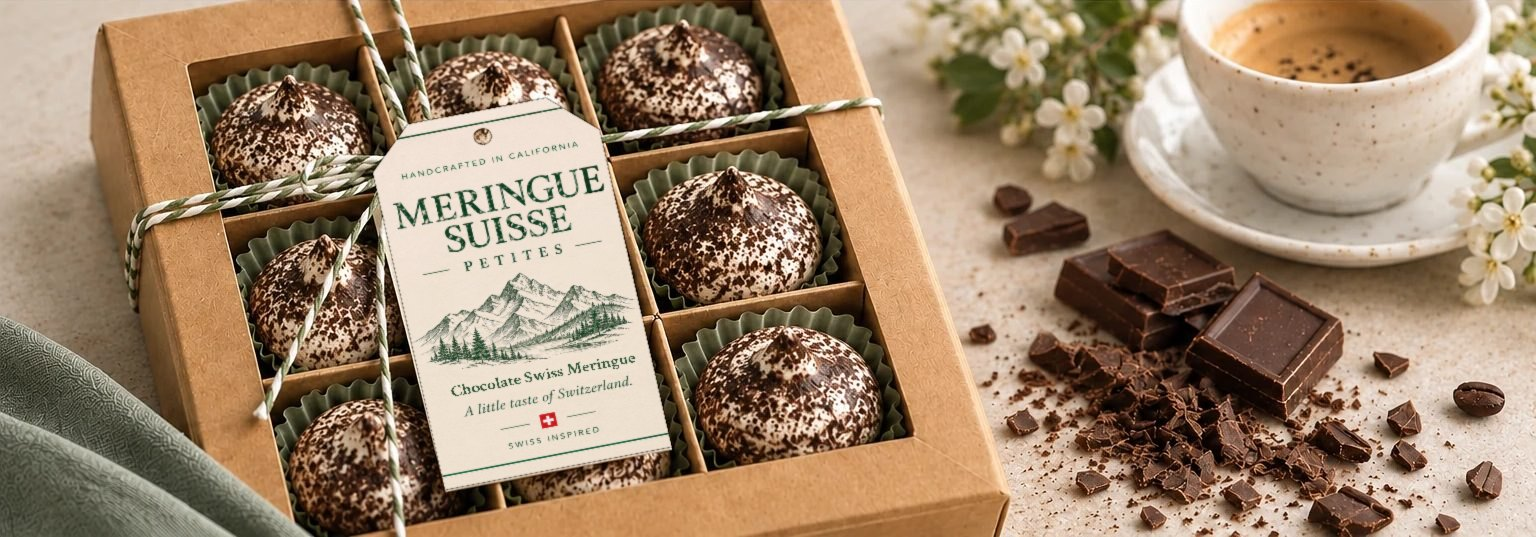
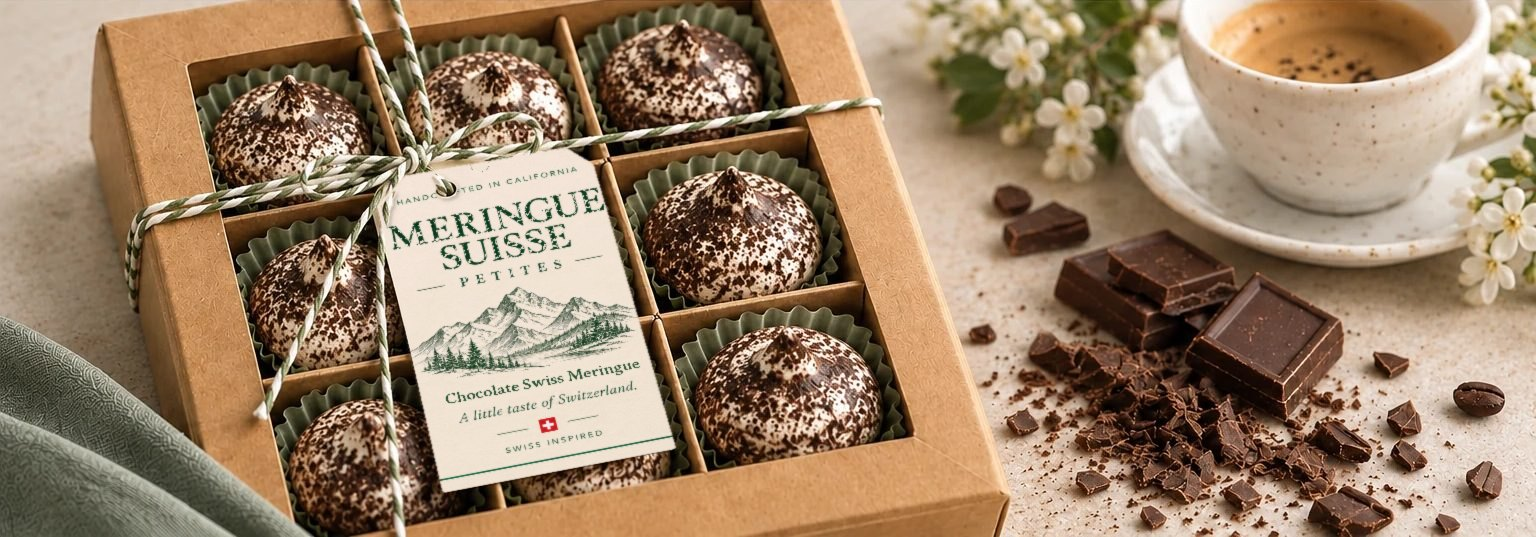
Redo tag compositing: twine and knot now pass over the new label
The new label is fitted to the old tag's outline (with its proportions)
so the knot stays untouched, and the twine crossing the tag is kept on
top with a soft shadow. Version suffix on the updated photos so browsers
reload them.

Claude-Session: https://claude.ai/code/session_01WSfocUezPVniS89HuC4wU9

Changed region(s): [[0.2188, 0.1788, 0.4375, 0.9236]]

diff --git a/shop.html b/shop.html
@@ -8,7 +8,7 @@
 <meta property="og:url" content="https://meringuesuisse.com/shop"><meta property="og:title" content="Shop PETITES — Box of 9 Swiss Meringues | Meringue Suisse"><meta property="og:description" content="PETITES: nine delicate Swiss-style meringues in a kraft gift box tied with twine. Classic, Coffee and Chocolate. $14.90 plus shipping. Coming soon: join the waiting list.">
 <meta property="og:image" content="https://meringuesuisse.com/images/share.jpg"><meta property="og:image:width" content="1200"><meta property="og:image:height" content="630"><meta property="og:image:alt" content="Meringue Suisse box of nine Swiss meringues tied with twine">
 <meta name="twitter:card" content="summary_large_image"><meta name="twitter:title" content="Shop PETITES — Box of 9 Swiss Meringues | Meringue Suisse"><meta name="twitter:description" content="PETITES: nine delicate Swiss-style meringues in a kraft gift box tied with twine. Classic, Coffee and Chocolate. $14.90 plus shipping. Coming soon: join the waiting list."><meta name="twitter:image" content="https://meringuesuisse.com/images/share.jpg">
-<script type="application/ld+json">{"@context":"https://schema.org","@type":"Product","name":"PETITES — Box of 9 Swiss Meringues","description":"Nine delicate Swiss-style meringues, handcrafted in California and arranged in a kraft gift box tied with twine. Flavors: Classic, Coffee, Chocolate.","image":["https://meringuesuisse.com/images/box-open.jpg","https://meringuesuisse.com/images/box-closed.jpg","https://meringuesuisse.com/images/gift-set.jpg"],"sku":"PETITES-9","brand":{"@type":"Brand","name":"Meringue Suisse"},"offers":{"@type":"Offer","url":"https://meringuesuisse.com/shop","priceCurrency":"USD","price":"14.90","availability":"https://schema.org/OutOfStock","itemCondition":"https://schema.org/NewCondition","seller":{"@id":"https://meringuesuisse.com/#organization"},"shippingDetails":[{"@type":"OfferShippingDetails","shippingLabel":"USPS Ground Advantage","shippingRate":{"@type":"MonetaryAmount","value":"9.90","currency":"USD"},"shippingDestination":{"@type":"DefinedRegion","addressCountry":"US","addressRegion":"CA"},"deliveryTime":{"@type":"ShippingDeliveryTime","handlingTime":{"@type":"QuantitativeValue","minValue":3,"maxValue":5,"unitCode":"DAY"},"transitTime":{"@type":"QuantitativeValue","minValue":2,"maxValue":5,"unitCode":"DAY"}}},{"@type":"OfferShippingDetails","shippingLabel":"Free local delivery (Temecula area)","shippingRate":{"@type":"MonetaryAmount","value":"0","currency":"USD"},"shippingDestination":{"@type":"DefinedRegion","addressCountry":"US","postalCode":["92590","92591","92592","92593","92562","92563","92564","92595","92596"]},"deliveryTime":{"@type":"ShippingDeliveryTime","handlingTime":{"@type":"QuantitativeValue","minValue":3,"maxValue":5,"unitCode":"DAY"},"transitTime":{"@type":"QuantitativeValue","minValue":0,"maxValue":1,"unitCode":"DAY"}}}],"hasMerchantReturnPolicy":{"@type":"MerchantReturnPolicy","applicableCountry":"US","returnPolicyCategory":"https://schema.org/MerchantReturnNotPermitted"}},"weight":{"@type":"QuantitativeValue","value":45,"unitCode":"GRM"}}</script>
+<script type="application/ld+json">{"@context":"https://schema.org","@type":"Product","name":"PETITES — Box of 9 Swiss Meringues","description":"Nine delicate Swiss-style meringues, handcrafted in California and arranged in a kraft gift box tied with twine. Flavors: Classic, Coffee, Chocolate.","image":["https://meringuesuisse.com/images/box-open.jpg","https://meringuesuisse.com/images/box-closed.jpg?v=2","https://meringuesuisse.com/images/gift-set.jpg?v=2"],"sku":"PETITES-9","brand":{"@type":"Brand","name":"Meringue Suisse"},"offers":{"@type":"Offer","url":"https://meringuesuisse.com/shop","priceCurrency":"USD","price":"14.90","availability":"https://schema.org/OutOfStock","itemCondition":"https://schema.org/NewCondition","seller":{"@id":"https://meringuesuisse.com/#organization"},"shippingDetails":[{"@type":"OfferShippingDetails","shippingLabel":"USPS Ground Advantage","shippingRate":{"@type":"MonetaryAmount","value":"9.90","currency":"USD"},"shippingDestination":{"@type":"DefinedRegion","addressCountry":"US","addressRegion":"CA"},"deliveryTime":{"@type":"ShippingDeliveryTime","handlingTime":{"@type":"QuantitativeValue","minValue":3,"maxValue":5,"unitCode":"DAY"},"transitTime":{"@type":"QuantitativeValue","minValue":2,"maxValue":5,"unitCode":"DAY"}}},{"@type":"OfferShippingDetails","shippingLabel":"Free local delivery (Temecula area)","shippingRate":{"@type":"MonetaryAmount","value":"0","currency":"USD"},"shippingDestination":{"@type":"DefinedRegion","addressCountry":"US","postalCode":["92590","92591","92592","92593","92562","92563","92564","92595","92596"]},"deliveryTime":{"@type":"ShippingDeliveryTime","handlingTime":{"@type":"QuantitativeValue","minValue":3,"maxValue":5,"unitCode":"DAY"},"transitTime":{"@type":"QuantitativeValue","minValue":0,"maxValue":1,"unitCode":"DAY"}}}],"hasMerchantReturnPolicy":{"@type":"MerchantReturnPolicy","applicableCountry":"US","returnPolicyCategory":"https://schema.org/MerchantReturnNotPermitted"}},"weight":{"@type":"QuantitativeValue","value":45,"unitCode":"GRM"}}</script>
 <script type="application/ld+json">{"@context":"https://schema.org","@type":"BreadcrumbList","itemListElement":[{"@type":"ListItem","position":1,"name":"Home","item":"https://meringuesuisse.com/"},{"@type":"ListItem","position":2,"name":"Shop","item":"https://meringuesuisse.com/shop"}]}</script>
 <meta name="theme-color" content="#F7F3EA">
 <link rel="icon" href="/favicon.ico" sizes="48x48">
@@ -17,7 +17,7 @@
 <link rel="manifest" href="/site.webmanifest">
 <link rel="preconnect" href="https://fonts.googleapis.com"><link rel="preconnect" href="https://fonts.gstatic.com" crossorigin>
 <link href="https://fonts.googleapis.com/css2?family=Cormorant+Garamond:ital,wght@0,400;0,500;0,600;1,400;1,500&family=Figtree:wght@400;500;600&display=swap" rel="stylesheet">
-<link rel="stylesheet" href="assets/style.css?v=2026102403">
+<link rel="stylesheet" href="assets/style.css?v=2026102501">
 </head><body>
 <a class="skip" href="#main">Skip to content</a>
 <header class="site-header"><div class="wrap nav">
@@ -31,7 +31,7 @@
   <div class="main"><img id="main-img" src="images/hero.jpg" alt="Nine Swiss meringues in sage-green cups" width="1027" height="838"></div>
   <div class="thumbs">
    <button aria-pressed="true" data-src="images/hero.jpg" data-alt="Nine Swiss meringues in sage-green cups"><img src="images/hero.jpg" alt="Show meringues in the box" width="1027" height="838"></button>
-   <button aria-pressed="false" data-src="images/box-closed.jpg" data-alt="Kraft window box tied with twine and a gift tag"><img src="images/box-closed.jpg" alt="Show closed box" width="1139" height="657"></button>
+   <button aria-pressed="false" data-src="images/box-closed.jpg?v=2" data-alt="Kraft window box tied with twine and a gift tag"><img src="images/box-closed.jpg?v=2" alt="Show closed box" width="1139" height="657"></button>
    <button aria-pressed="false" data-src="images/box-open.jpg" data-alt="Open kraft box of nine meringues with the little Meringue Suisse card"><img src="images/box-open.jpg" alt="Show open box" width="1027" height="701"></button>
    <button aria-pressed="false" data-src="images/closeup.jpg" data-alt="Close-up of a Swiss meringue"><img src="images/closeup.jpg" alt="Show close-up" width="1139" height="838"></button>
   </div>
@@ -79,6 +79,6 @@
 <p style="margin-top:.5rem">Ingredients, allergens and net weight are listed on each product page.</p></div>
 </div></footer>
 <script>document.getElementById("yr").textContent=new Date().getFullYear()</script>
-<script src="assets/config.js?v=2026102403"></script><script src="assets/site.js?v=2026102403"></script>
+<script src="assets/config.js?v=2026102501"></script><script src="assets/site.js?v=2026102501"></script>
 <!-- Cloudflare Web Analytics --><script type='module' src='https://static.cloudflareinsights.com/beacon.min.js' data-cf-beacon='{"token": "d83dcca4d8484fac94c0cab27d64881f"}'></script><!-- End Cloudflare Web Analytics -->
 </body></html>

diff --git a/index.html b/index.html
@@ -17,7 +17,7 @@
 <link rel="manifest" href="/site.webmanifest">
 <link rel="preconnect" href="https://fonts.googleapis.com"><link rel="preconnect" href="https://fonts.gstatic.com" crossorigin>
 <link href="https://fonts.googleapis.com/css2?family=Cormorant+Garamond:ital,wght@0,400;0,500;0,600;1,400;1,500&family=Figtree:wght@400;500;600&display=swap" rel="stylesheet">
-<link rel="stylesheet" href="assets/style.css?v=2026102403">
+<link rel="stylesheet" href="assets/style.css?v=2026102501">
 </head><body>
 <a class="skip" href="#main">Skip to content</a>
 <header class="site-header"><div class="wrap nav">
@@ -36,7 +36,7 @@
  <div class="hero-img"><img src="images/hero.jpg" alt="Open kraft box of nine Swiss meringues in sage-green cups" fetchpriority="high" width="1027" height="838"></div>
 </div>
 <section class="band"><div class="wrap split">
- <img src="images/gift-set.jpg" alt="Kraft box of nine meringues tied with green and white twine and a Meringue Suisse tag, next to the story card" loading="lazy" width="1135" height="838">
+ <img src="images/gift-set.jpg?v=2" alt="Kraft box of nine meringues tied with green and white twine and a Meringue Suisse tag, next to the story card" loading="lazy" width="1135" height="838">
  <div class="text"><h2>Small delights.<br>Swiss tradition.</h2>
   <p>Inspired by Switzerland's love of simple, beautiful things, our delicate meringues bring a little European elegance to everyday moments.</p>
   <p>Light, crisp and beautifully presented, each box is made to be enjoyed, shared or gifted.</p>
@@ -47,8 +47,8 @@
  <div class="head-c"><h2>Our flavors</h2></div>
  <div class="cards">
   <a class="card" href="/shop?flavor=classic"><div class="ph"><img src="images/classic.jpg" alt="A single classic Swiss meringue" loading="lazy" width="1139" height="701"></div><div class="b"><span class="n">01</span><h3>CLASSIC</h3><p>Pure, delicate and timeless.</p></div></a>
-  <a class="card" href="/shop?flavor=coffee"><div class="ph"><img src="images/coffee.jpg" style="object-position:50% 50%" alt="Kraft box of coffee meringues tied with twine and a Coffee Meringue tag" loading="lazy" width="960" height="545"></div><div class="b"><span class="n">02</span><h3>COFFEE</h3><p>A delicate coffee note for those who appreciate a richer taste.</p></div></a>
-  <a class="card" href="/shop?flavor=chocolate"><div class="ph"><img src="images/chocolate.jpg" style="object-position:25% 50%" alt="Chocolate meringues dusted with cocoa in a kraft box tied with twine, beside dark chocolate" loading="lazy" width="1600" height="534"></div><div class="b"><span class="n">03</span><h3>CHOCOLATE</h3><p>A refined cocoa variation inspired by Swiss chocolate tradition.</p></div></a>
+  <a class="card" href="/shop?flavor=coffee"><div class="ph"><img src="images/coffee.jpg?v=2" style="object-position:50% 50%" alt="Kraft box of coffee meringues tied with twine and a Coffee Meringue tag" loading="lazy" width="960" height="545"></div><div class="b"><span class="n">02</span><h3>COFFEE</h3><p>A delicate coffee note for those who appreciate a richer taste.</p></div></a>
+  <a class="card" href="/shop?flavor=chocolate"><div class="ph"><img src="images/chocolate.jpg?v=2" style="object-position:25% 50%" alt="Chocolate meringues dusted with cocoa in a kraft box tied with twine, beside dark chocolate" loading="lazy" width="1600" height="534"></div><div class="b"><span class="n">03</span><h3>CHOCOLATE</h3><p>A refined cocoa variation inspired by Swiss chocolate tradition.</p></div></a>
  </div>
  <p class="note">Coffee and Chocolate are planned for launch, subject to final recipe approval.</p>
 </div></section>
@@ -59,7 +59,7 @@
 <section class="band"><div class="wrap">
  <div class="head-c"><h2>Made to be given.<br>Lovely to receive.</h2><p>A little box of something special. Thoughtfully presented, ready to share.</p></div>
  <div class="trio">
-  <img src="images/box-closed.jpg" alt="Kraft window box of nine meringues tied with twine and a Meringue Suisse tag" loading="lazy" width="1139" height="657">
+  <img src="images/box-closed.jpg?v=2" alt="Kraft window box of nine meringues tied with twine and a Meringue Suisse tag" loading="lazy" width="1139" height="657">
   <img src="images/box-open.jpg" alt="Open box of nine meringues with the little Meringue Suisse card" loading="lazy" width="1027" height="701">
   <img src="images/story-card.jpg" style="object-position:20% 50%" alt="The little story card included in every box" loading="lazy" width="1135" height="701">
  </div>
@@ -87,6 +87,6 @@
 <p style="margin-top:.5rem">Ingredients, allergens and net weight are listed on each product page.</p></div>
 </div></footer>
 <script>document.getElementById("yr").textContent=new Date().getFullYear()</script>
-<script src="assets/config.js?v=2026102403"></script><script src="assets/site.js?v=2026102403"></script>
+<script src="assets/config.js?v=2026102501"></script><script src="assets/site.js?v=2026102501"></script>
 <!-- Cloudflare Web Analytics --><script type='module' src='https://static.cloudflareinsights.com/beacon.min.js' data-cf-beacon='{"token": "d83dcca4d8484fac94c0cab27d64881f"}'></script><!-- End Cloudflare Web Analytics -->
 </body></html>

diff --git a/assets/site.js b/assets/site.js
@@ -40,13 +40,13 @@
       classic:{src:"images/hero.jpg",alt:"Kraft box of nine classic Swiss meringues in sage-green cups"},
       coffee:{src:"images/coffee-open.jpg",alt:"Open kraft box of nine coffee meringues",pos:"30% 50%",gallery:[
         {src:"images/coffee-open.jpg",alt:"Open kraft box of nine coffee meringues",pos:"30% 50%"},
-        {src:"images/coffee-tied.jpg",alt:"Box of coffee meringues tied with twine and a Coffee Meringue tag",pos:"50% 50%"},
+        {src:"images/coffee-tied.jpg?v=2",alt:"Box of coffee meringues tied with twine and a Coffee Meringue tag",pos:"50% 50%"},
         {src:"images/coffee-closeup.jpg",alt:"Close-up of a coffee meringue beside coffee beans",pos:"40% 50%"}]},
       chocolate:{src:"images/choc-open.jpg",alt:"Open kraft box of nine chocolate meringues dusted with cocoa",pos:"30% 50%",gallery:[
         {src:"images/choc-open.jpg",alt:"Open kraft box of nine chocolate meringues dusted with cocoa",pos:"30% 50%"},
-        {src:"images/choc-tied.jpg",alt:"Box of chocolate meringues tied with twine and a Meringue Suisse tag",pos:"30% 50%"},
+        {src:"images/choc-tied.jpg?v=2",alt:"Box of chocolate meringues tied with twine and a Meringue Suisse tag",pos:"30% 50%"},
         {src:"images/choc-closeup.jpg",alt:"Close-up of a chocolate meringue dusted with cocoa",pos:"50% 50%"},
-        {src:"images/chocolate.jpg",alt:"Chocolate meringues in their box beside pieces of dark chocolate and an espresso",pos:"25% 50%"}]}
+        {src:"images/chocolate.jpg?v=2",alt:"Chocolate meringues in their box beside pieces of dark chocolate and an espresso",pos:"25% 50%"}]}
     };
     // small photos under the main photo: per-flavor set when defined, else the default set
     var thumbsEl=$(".thumbs"),defaultThumbs=thumbsEl?thumbsEl.innerHTML:"";
@@ -80,7 +80,7 @@
   // ---- cart page
   var cartEl=$("#cart");
   if(cartEl){
-    var imgFor={classic:"images/classic.jpg",coffee:"images/coffee.jpg",chocolate:"images/chocolate.jpg"};
+    var imgFor={classic:"images/classic.jpg",coffee:"images/coffee.jpg?v=2",chocolate:"images/chocolate.jpg?v=2"};
     var render=function(){
       var c=load(),box=$("#lines"),sum=$("#summary");
       if(!c.length){box.innerHTML='<div class="empty"><p class="lede">Your cart is empty.</p><div class="btn-row" style="justify-content:center"><a class="btn" href="/shop">Shop PETITES</a></div></div>';sum.hidden=true;return}

diff --git a/404.html b/404.html
@@ -16,7 +16,7 @@
 <link rel="manifest" href="/site.webmanifest">
 <link rel="preconnect" href="https://fonts.googleapis.com"><link rel="preconnect" href="https://fonts.gstatic.com" crossorigin>
 <link href="https://fonts.googleapis.com/css2?family=Cormorant+Garamond:ital,wght@0,400;0,500;0,600;1,400;1,500&family=Figtree:wght@400;500;600&display=swap" rel="stylesheet">
-<link rel="stylesheet" href="/assets/style.css?v=2026102403">
+<link rel="stylesheet" href="/assets/style.css?v=2026102501">
 </head><body>
 <a class="skip" href="#main">Skip to content</a>
 <header class="site-header"><div class="wrap nav">
@@ -42,6 +42,6 @@
 <p style="margin-top:.5rem">Ingredients, allergens and net weight are listed on each product page.</p></div>
 </div></footer>
 <script>document.getElementById("yr").textContent=new Date().getFullYear()</script>
-<script src="/assets/config.js?v=2026102403"></script><script src="/assets/site.js?v=2026102403"></script>
+<script src="/assets/config.js?v=2026102501"></script><script src="/assets/site.js?v=2026102501"></script>
 <!-- Cloudflare Web Analytics --><script type='module' src='https://static.cloudflareinsights.com/beacon.min.js' data-cf-beacon='{"token": "d83dcca4d8484fac94c0cab27d64881f"}'></script><!-- End Cloudflare Web Analytics -->
 </body></html>

diff --git a/cart.html b/cart.html
@@ -16,7 +16,7 @@
 <link rel="manifest" href="/site.webmanifest">
 <link rel="preconnect" href="https://fonts.googleapis.com"><link rel="preconnect" href="https://fonts.gstatic.com" crossorigin>
 <link href="https://fonts.googleapis.com/css2?family=Cormorant+Garamond:ital,wght@0,400;0,500;0,600;1,400;1,500&family=Figtree:wght@400;500;600&display=swap" rel="stylesheet">
-<link rel="stylesheet" href="assets/style.css?v=2026102403">
+<link rel="stylesheet" href="assets/style.css?v=2026102501">
 </head><body>
 <a class="skip" href="#main">Skip to content</a>
 <header class="site-header"><div class="wrap nav">
@@ -70,6 +70,6 @@
 <p style="margin-top:.5rem">Ingredients, allergens and net weight are listed on each product page.</p></div>
 </div></footer>
 <script>document.getElementById("yr").textContent=new Date().getFullYear()</script>
-<script src="assets/config.js?v=2026102403"></script><script src="assets/site.js?v=2026102403"></script>
+<script src="assets/config.js?v=2026102501"></script><script src="assets/site.js?v=2026102501"></script>
 <!-- Cloudflare Web Analytics --><script type='module' src='https://static.cloudflareinsights.com/beacon.min.js' data-cf-beacon='{"token": "d83dcca4d8484fac94c0cab27d64881f"}'></script><!-- End Cloudflare Web Analytics -->
 </body></html>

diff --git a/contact.html b/contact.html
@@ -16,7 +16,7 @@
 <link rel="manifest" href="/site.webmanifest">
 <link rel="preconnect" href="https://fonts.googleapis.com"><link rel="preconnect" href="https://fonts.gstatic.com" crossorigin>
 <link href="https://fonts.googleapis.com/css2?family=Cormorant+Garamond:ital,wght@0,400;0,500;0,600;1,400;1,500&family=Figtree:wght@400;500;600&display=swap" rel="stylesheet">
-<link rel="stylesheet" href="assets/style.css?v=2026102403">
+<link rel="stylesheet" href="assets/style.css?v=2026102501">
 </head><body>
 <a class="skip" href="#main">Skip to content</a>
 <header class="site-header"><div class="wrap nav">
@@ -53,6 +53,6 @@
 <p style="margin-top:.5rem">Ingredients, allergens and net weight are listed on each product page.</p></div>
 </div></footer>
 <script>document.getElementById("yr").textContent=new Date().getFullYear()</script>
-<script src="assets/config.js?v=2026102403"></script><script src="assets/site.js?v=2026102403"></script>
+<script src="assets/config.js?v=2026102501"></script><script src="assets/site.js?v=2026102501"></script>
 <!-- Cloudflare Web Analytics --><script type='module' src='https://static.cloudflareinsights.com/beacon.min.js' data-cf-beacon='{"token": "d83dcca4d8484fac94c0cab27d64881f"}'></script><!-- End Cloudflare Web Analytics -->
 </body></html>

diff --git a/privacy.html b/privacy.html
@@ -15,7 +15,7 @@
 <link rel="manifest" href="/site.webmanifest">
 <link rel="preconnect" href="https://fonts.googleapis.com"><link rel="preconnect" href="https://fonts.gstatic.com" crossorigin>
 <link href="https://fonts.googleapis.com/css2?family=Cormorant+Garamond:ital,wght@0,400;0,500;0,600;1,400;1,500&family=Figtree:wght@400;500;600&display=swap" rel="stylesheet">
-<link rel="stylesheet" href="assets/style.css?v=2026102403">
+<link rel="stylesheet" href="assets/style.css?v=2026102501">
 </head><body>
 <a class="skip" href="#main">Skip to content</a>
 <header class="site-header"><div class="wrap nav">
@@ -83,6 +83,6 @@
 <p style="margin-top:.5rem">Ingredients, allergens and net weight are listed on each product page.</p></div>
 </div></footer>
 <script>document.getElementById("yr").textContent=new Date().getFullYear()</script>
-<script src="assets/config.js?v=2026102403"></script><script src="assets/site.js?v=2026102403"></script>
+<script src="assets/config.js?v=2026102501"></script><script src="assets/site.js?v=2026102501"></script>
 <!-- Cloudflare Web Analytics --><script type='module' src='https://static.cloudflareinsights.com/beacon.min.js' data-cf-beacon='{"token": "d83dcca4d8484fac94c0cab27d64881f"}'></script><!-- End Cloudflare Web Analytics -->
 </body></html>

diff --git a/shipping-returns.html b/shipping-returns.html
@@ -16,7 +16,7 @@
 <link rel="manifest" href="/site.webmanifest">
 <link rel="preconnect" href="https://fonts.googleapis.com"><link rel="preconnect" href="https://fonts.gstatic.com" crossorigin>
 <link href="https://fonts.googleapis.com/css2?family=Cormorant+Garamond:ital,wght@0,400;0,500;0,600;1,400;1,500&family=Figtree:wght@400;500;600&display=swap" rel="stylesheet">
-<link rel="stylesheet" href="assets/style.css?v=2026102403">
+<link rel="stylesheet" href="assets/style.css?v=2026102501">
 </head><body>
 <a class="skip" href="#main">Skip to content</a>
 <header class="site-header"><div class="wrap nav">
@@ -47,6 +47,6 @@
 <p style="margin-top:.5rem">Ingredients, allergens and net weight are listed on each product page.</p></div>
 </div></footer>
 <script>document.getElementById("yr").textContent=new Date().getFullYear()</script>
-<script src="assets/config.js?v=2026102403"></script><script src="assets/site.js?v=2026102403"></script>
+<script src="assets/config.js?v=2026102501"></script><script src="assets/site.js?v=2026102501"></script>
 <!-- Cloudflare Web Analytics --><script type='module' src='https://static.cloudflareinsights.com/beacon.min.js' data-cf-beacon='{"token": "d83dcca4d8484fac94c0cab27d64881f"}'></script><!-- End Cloudflare Web Analytics -->
 </body></html>

diff --git a/story.html b/story.html
@@ -16,7 +16,7 @@
 <link rel="manifest" href="/site.webmanifest">
 <link rel="preconnect" href="https://fonts.googleapis.com"><link rel="preconnect" href="https://fonts.gstatic.com" crossorigin>
 <link href="https://fonts.googleapis.com/css2?family=Cormorant+Garamond:ital,wght@0,400;0,500;0,600;1,400;1,500&family=Figtree:wght@400;500;600&display=swap" rel="stylesheet">
-<link rel="stylesheet" href="assets/style.css?v=2026102403">
+<link rel="stylesheet" href="assets/style.css?v=2026102501">
 </head><body>
 <a class="skip" href="#main">Skip to content</a>
 <header class="site-header"><div class="wrap nav">
@@ -53,6 +53,6 @@
 <p style="margin-top:.5rem">Ingredients, allergens and net weight are listed on each product page.</p></div>
 </div></footer>
 <script>document.getElementById("yr").textContent=new Date().getFullYear()</script>
-<script src="assets/config.js?v=2026102403"></script><script src="assets/site.js?v=2026102403"></script>
+<script src="assets/config.js?v=2026102501"></script><script src="assets/site.js?v=2026102501"></script>
 <!-- Cloudflare Web Analytics --><script type='module' src='https://static.cloudflareinsights.com/beacon.min.js' data-cf-beacon='{"token": "d83dcca4d8484fac94c0cab27d64881f"}'></script><!-- End Cloudflare Web Analytics -->
 </body></html>

diff --git a/terms.html b/terms.html
@@ -15,7 +15,7 @@
 <link rel="manifest" href="/site.webmanifest">
 <link rel="preconnect" href="https://fonts.googleapis.com"><link rel="preconnect" href="https://fonts.gstatic.com" crossorigin>
 <link href="https://fonts.googleapis.com/css2?family=Cormorant+Garamond:ital,wght@0,400;0,500;0,600;1,400;1,500&family=Figtree:wght@400;500;600&display=swap" rel="stylesheet">
-<link rel="stylesheet" href="assets/style.css?v=2026102403">
+<link rel="stylesheet" href="assets/style.css?v=2026102501">
 </head><body>
 <a class="skip" href="#main">Skip to content</a>
 <header class="site-header"><div class="wrap nav">
@@ -46,6 +46,6 @@
 <p style="margin-top:.5rem">Ingredients, allergens and net weight are listed on each product page.</p></div>
 </div></footer>
 <script>document.getElementById("yr").textContent=new Date().getFullYear()</script>
-<script src="assets/config.js?v=2026102403"></script><script src="assets/site.js?v=2026102403"></script>
+<script src="assets/config.js?v=2026102501"></script><script src="assets/site.js?v=2026102501"></script>
 <!-- Cloudflare Web Analytics --><script type='module' src='https://static.cloudflareinsights.com/beacon.min.js' data-cf-beacon='{"token": "d83dcca4d8484fac94c0cab27d64881f"}'></script><!-- End Cloudflare Web Analytics -->
 </body></html>

diff --git a/thank-you.html b/thank-you.html
@@ -16,7 +16,7 @@
 <link rel="manifest" href="/site.webmanifest">
 <link rel="preconnect" href="https://fonts.googleapis.com"><link rel="preconnect" href="https://fonts.gstatic.com" crossorigin>
 <link href="https://fonts.googleapis.com/css2?family=Cormorant+Garamond:ital,wght@0,400;0,500;0,600;1,400;1,500&family=Figtree:wght@400;500;600&display=swap" rel="stylesheet">
-<link rel="stylesheet" href="assets/style.css?v=2026102403">
+<link rel="stylesheet" href="assets/style.css?v=2026102501">
 </head><body>
 <a class="skip" href="#main">Skip to content</a>
 <header class="site-header"><div class="wrap nav">
@@ -44,5 +44,5 @@
 <p style="margin-top:.5rem">Ingredients, allergens and net weight are listed on each product page.</p></div>
 </div></footer>
 <script>document.getElementById("yr").textContent=new Date().getFullYear()</script>
-<script src="assets/config.js?v=2026102403"></script><script src="assets/site.js?v=2026102403"></script>
+<script src="assets/config.js?v=2026102501"></script><script src="assets/site.js?v=2026102501"></script>
 </body></html>

diff --git a/promo-admin.html b/promo-admin.html
@@ -5,7 +5,7 @@
 <meta name="robots" content="noindex, nofollow">
 <link rel="icon" href="/favicon.ico" sizes="48x48">
 <link rel="icon" href="/favicon.svg" type="image/svg+xml">
-<link rel="stylesheet" href="assets/style.css?v=2026102403">
+<link rel="stylesheet" href="assets/style.css?v=2026102501">
 <style>
 .admin{max-width:40rem;margin:0 auto;padding:3rem 1.25rem 5rem}
 .admin .field{margin-top:1.2rem}.admin label{display:block;font-size:.9rem;margin-bottom:.35rem}
@@ -34,7 +34,7 @@
 <div id="table"></div>
 <p class="fine" style="margin-top:2rem">To disable a code: Stripe → Product catalog → Coupons → <em>Free box (PETITES)</em> → Promotion codes.</p>
 </main>
-<script src="assets/config.js?v=2026102403"></script>
+<script src="assets/config.js?v=2026102501"></script>
 <script>
 (function(){
   var E=window.SITE.checkoutEndpoint,$=function(s){return document.querySelector(s)},log=$("#log");
